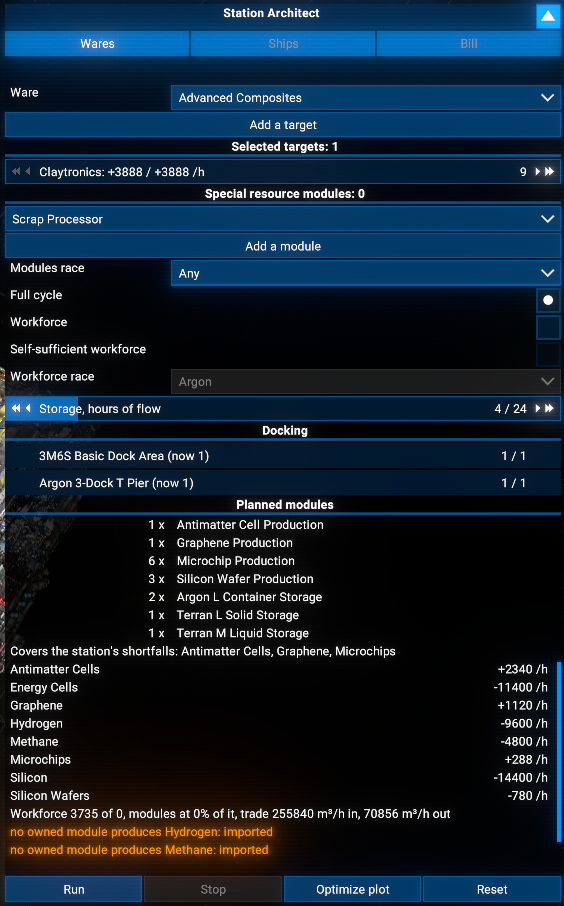
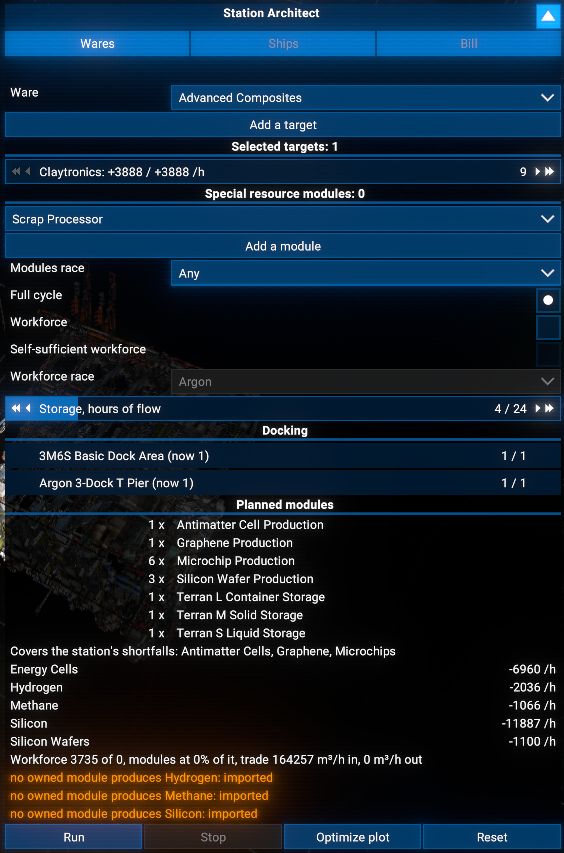
fix: faster panel planning, safeguards, refreshed README shots
Performance
- rebuild the module catalogue only when a blueprint library changes
  (it was rebuilt three times per panel build)
- memoise station modules, profile and per-ware balance for one frame
- cache ship build resources per size, race and build method

Safeguards
- refuse a bill with no placeable module
- stop the run when the editor is gone at the restart
- a producer with zero output (no sunlight) warns instead of asking for
  infinite modules
- a generic connection module fits the Any race

Fixes
- the kit vote counts habitats and production modules only, as documented
- the panel was built twice at the end of a run
- simplify the habitat ladder condition, rename a local that shadowed next

README
- retake the Wares, special, existing station and finished run shots on
  current plans (192 placed, 0 failed)
- note that Workforce starts unticked on a station without habitats

diff --git a/README.md b/README.md
@@ -67,7 +67,7 @@ Open the build menu of one of your stations. The Station Architect panel sits un
 2. Set the options:
    - **Modules race**: the race whose modules and ship hulls the plan prefers; **Any** chooses from all your blueprints. Habitats, and under **Self-sufficient workforce** the modules that feed them, follow **Workforce race**. A new station's connection structures follow **Modules race**; under **Any**, the race holding most of the planned habitats and production modules, or your smallest connection structures when those modules are all generic.
    - **Full cycle**: every intermediate ware down to raw resources and energy.
-   - **Workforce**: habitats for the workforce of the planned modules.
+   - **Workforce**: habitats for the workforce of the planned modules. On an existing station it starts unticked while the station has no habitat.
    - **Self-sufficient workforce**: with **Full cycle** and **Workforce**, the food and medicine of that workforce too.
    - **Workforce race**: the race of the habitats, and so of what the workforce eats.
    - **Storage, hours of flow**: how many hours of each ware's flow the storage holds, 1 to 24, 4 by default. Each ware gets one module of the smallest size that holds it, several only of the largest size.
@@ -113,7 +113,7 @@ Their scrap metal feeds the scrap recycling modules that make your target wares 
 3. If the game's editor still refuses a module after a few retries, the run removes every module it placed and starts the placement over, once. A second refusal removes everything again, and the folded panel names the module.
 4. When the run ends the panel folds to its result (placed, failed). Check the plan, change what you like by hand, and press **Confirm module changes** as usual. **Optimize plot** fits the plot to the planned modules, so a plot the run grew is not paid larger than needed. **Reset** starts the target over from what the station has. While a plot's licence is still due (a new plot before its run, or after a **Bill** run, which grows the plot without asking), the panel shows the fee with its own **Buy licence**.
 
-![A finished run: 190 modules placed, 0 failed, the plan waiting for Confirm module changes](docs/images/build_menu_done.png)
+![A finished run: 192 modules placed, 0 failed, the plan waiting for Confirm module changes](docs/images/build_menu_done.png)
 
 ### From the map
 
@@ -186,6 +186,7 @@ In the game's Extension Options, the Station Architect page has a Debug Level se
   - A habitat far above the workforce gives way to smaller owned ones
   - A ware target counts its kind of module, no longer modules of net output
   - The progress line shows the turn on the grid layout too
+  - The panel plans faster on large stations
   - License: Apache 2.0 with the Platform Distribution Restriction, see LICENSE.
 - Fixed
   - Game 8.00: piers and dock areas never hung under a connection structure
